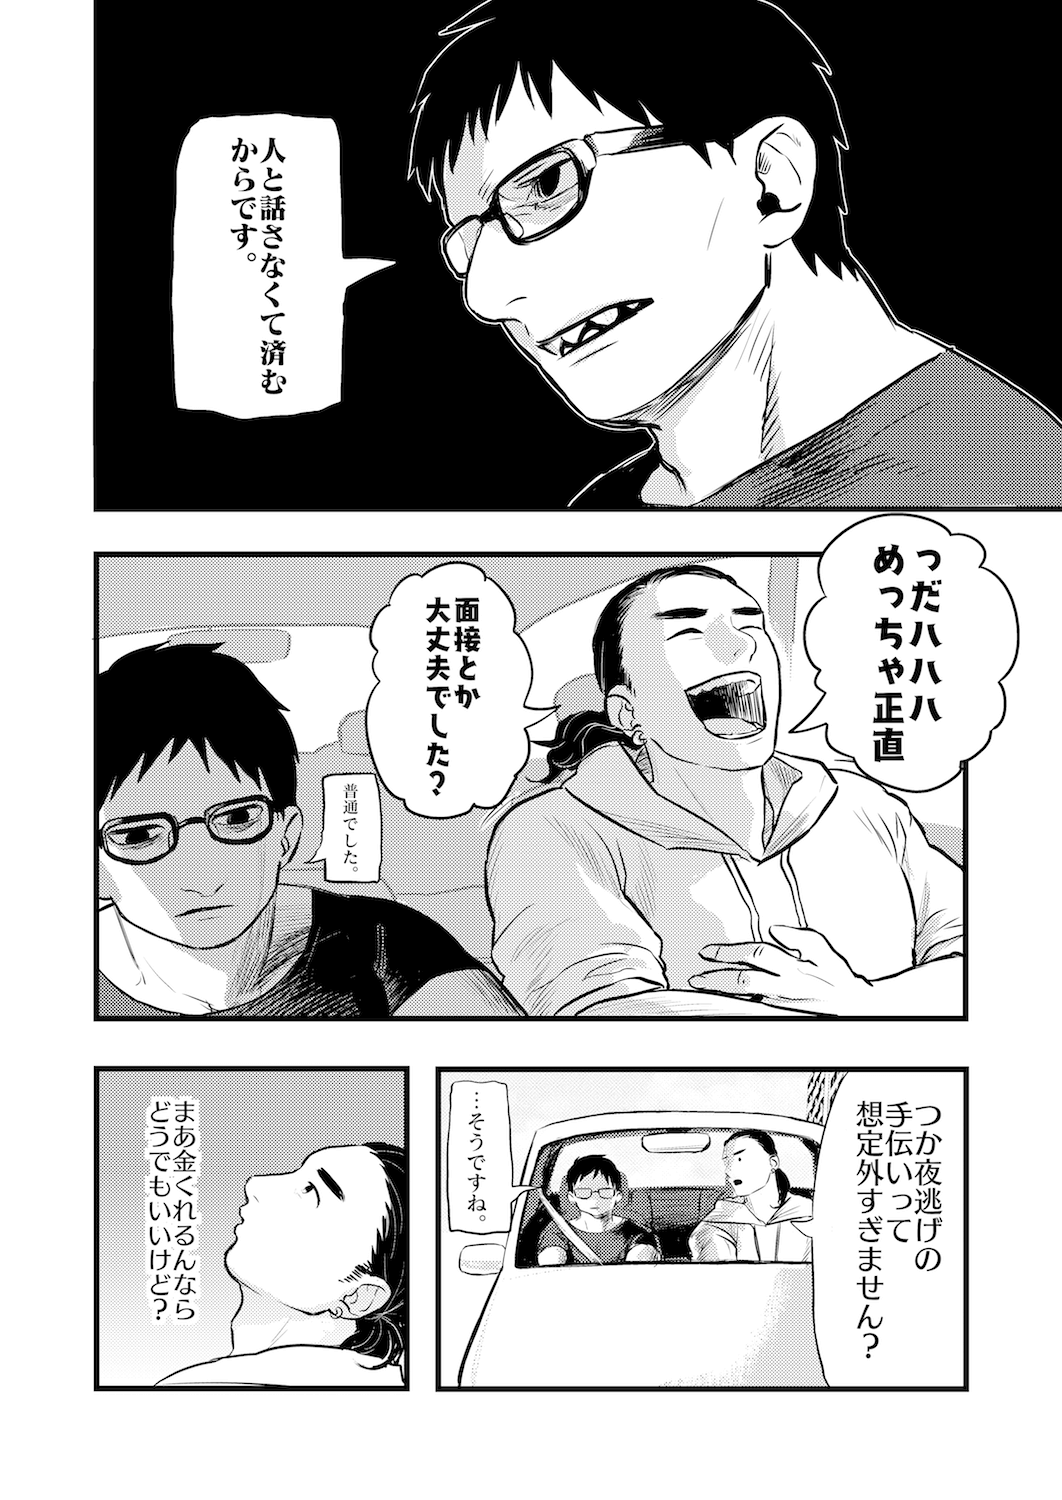
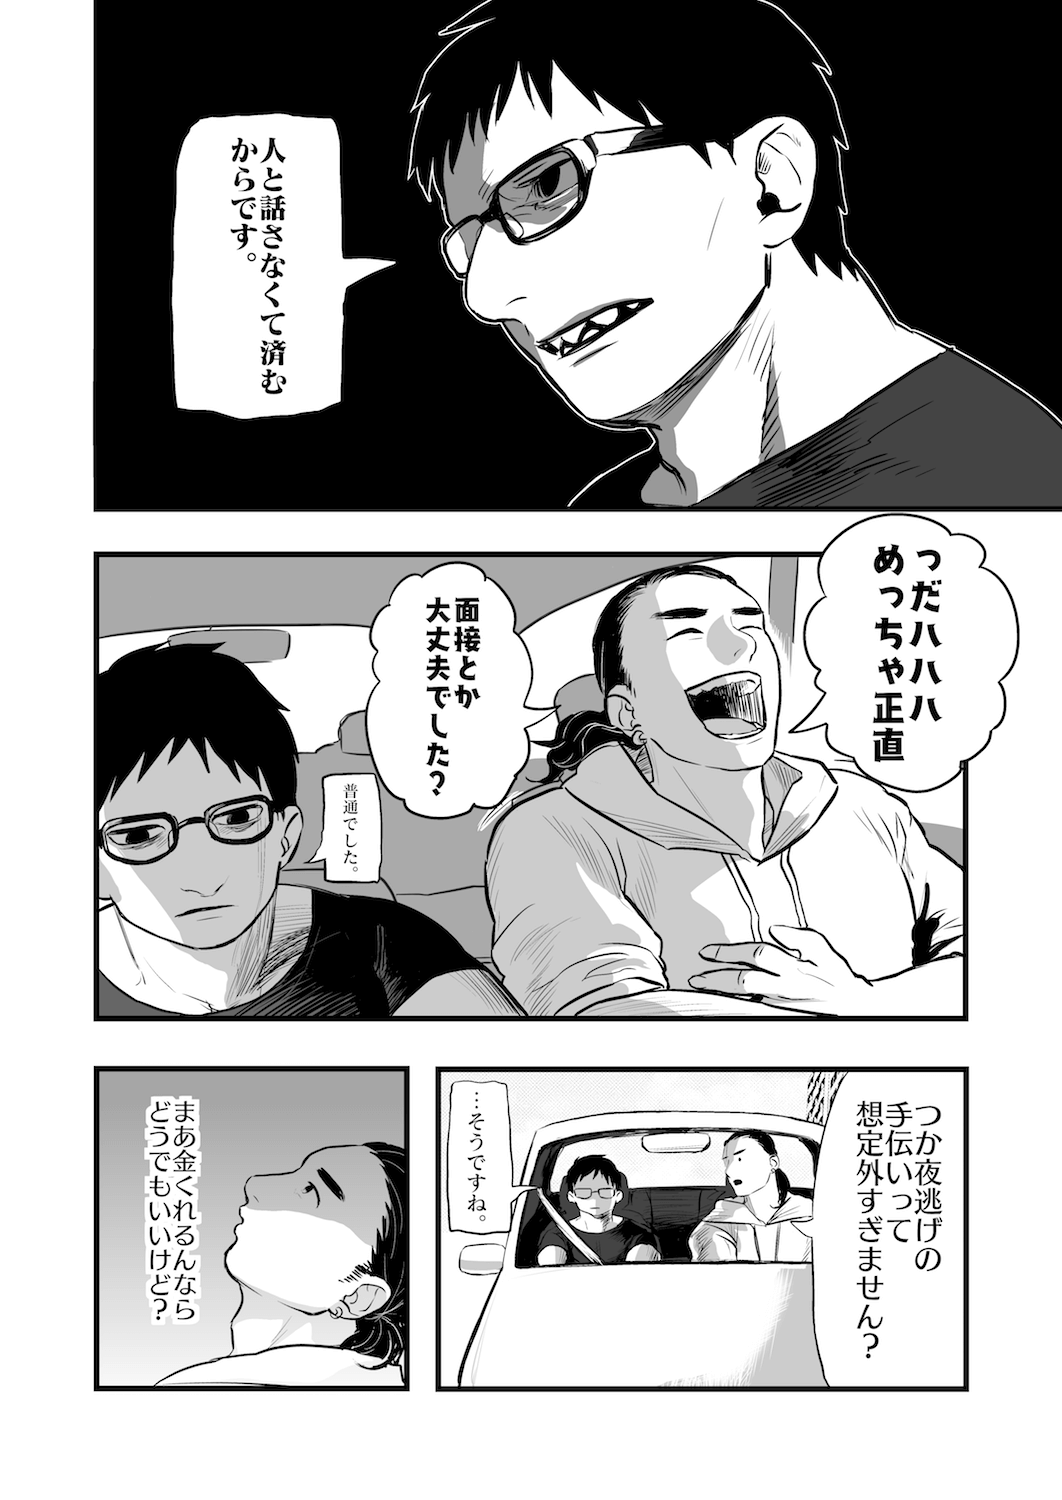
Changed #1-2 with grayscale

diff --git a/style/main.css b/style/main.css
@@ -126,7 +126,7 @@ a:hover{
     padding: 2em 2em;
     margin:1em auto 2em;
     background: var(--CARDcolor);
-    
+    align-items: center;
     box-shadow: 0 0 2px rgba(0, 0, 0, 0.06);
     animation: fadeIn 2s ease 0s 1 normal;
 }
